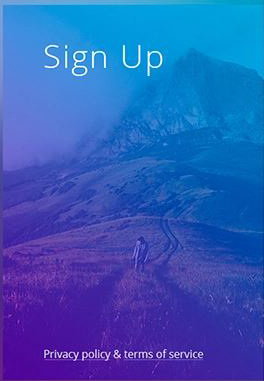
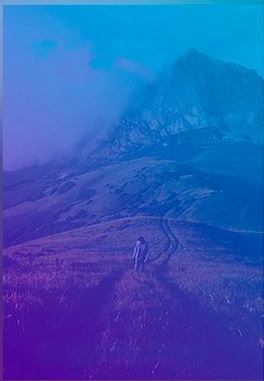
corr

Changed region(s): [[0.1212, 0.0866, 0.6364, 0.231], [0.1515, 0.895, 0.7879, 0.9528]]

diff --git a/css/custom.css b/css/custom.css
@@ -14,7 +14,7 @@ body {
             padding: 40px;
             padding-bottom: 20px;
             background-color: #0069BA;
-            backgroud-image: url(../img/kalnas.jpg);
+            background-image: url(../img/kalnas.jpg);
             color: #fff;
             position: absolute;
             top: 30px;

diff --git a/css/button.css b/css/button.css
@@ -8,10 +8,10 @@
     border-radius: 20px;
     background-color: blue;
     color: #ffffff;
-    box-shadow: 0 2px 5px #777777;
+    box-shadow: 2px 2px 5px #777777;
 }
 
 .btn:hover {
-    box-shadow: 0 4px 8px #777777;
+    box-shadow: 4px 4px 8px #777777;
     cursor: pointer;
 }
